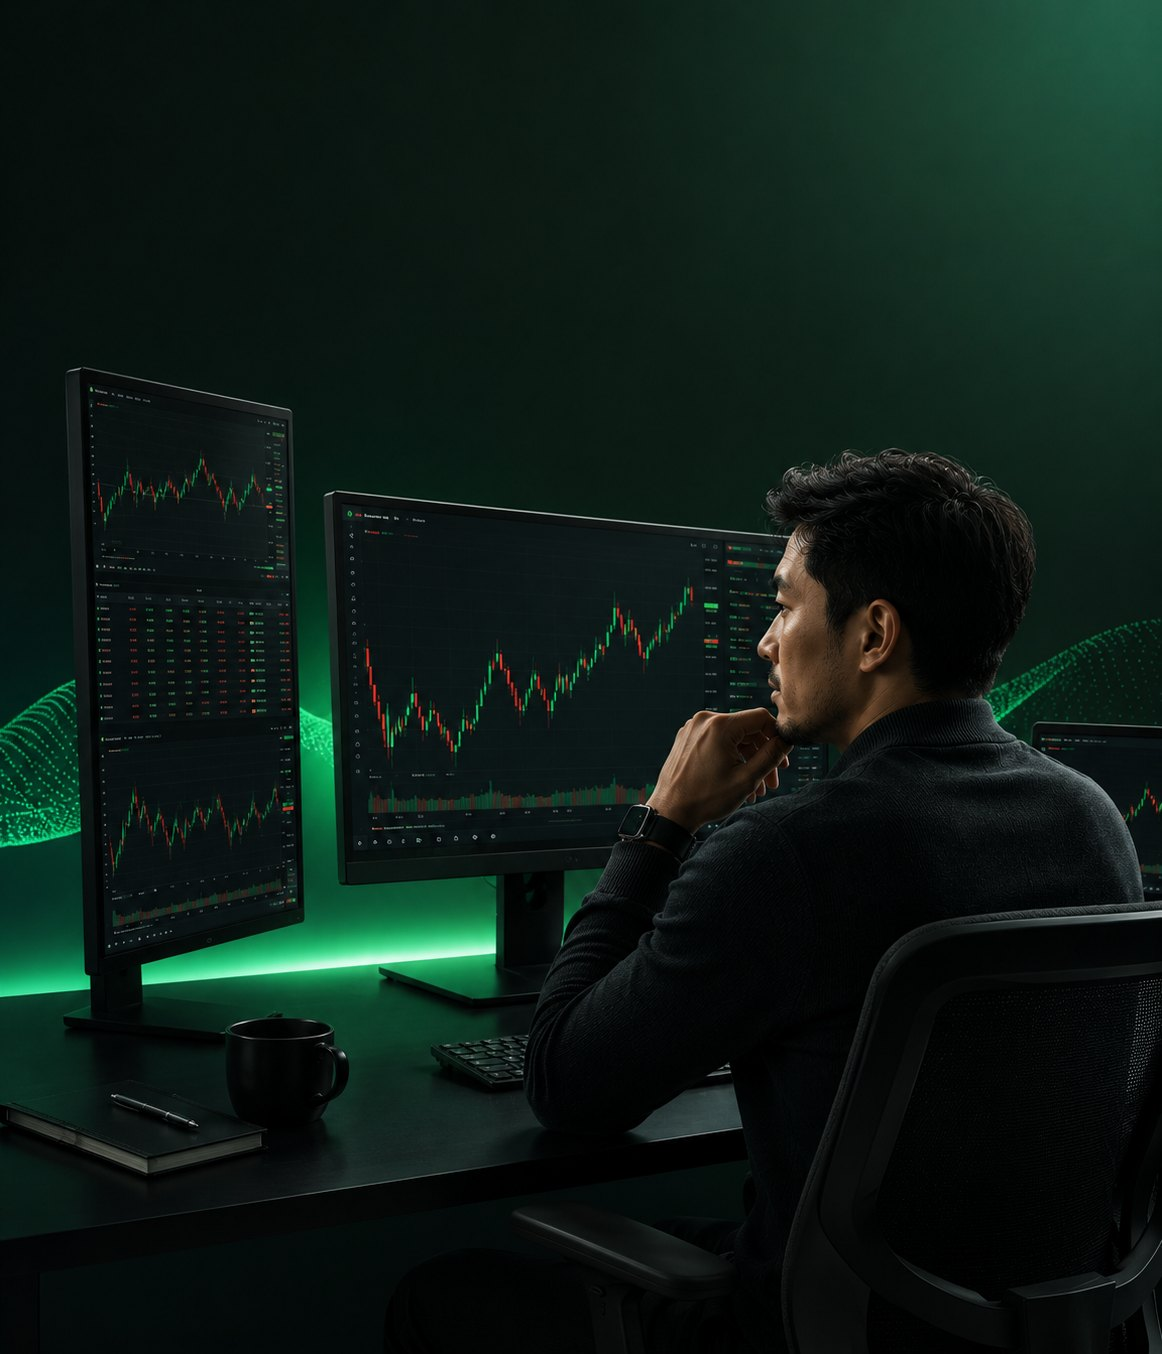
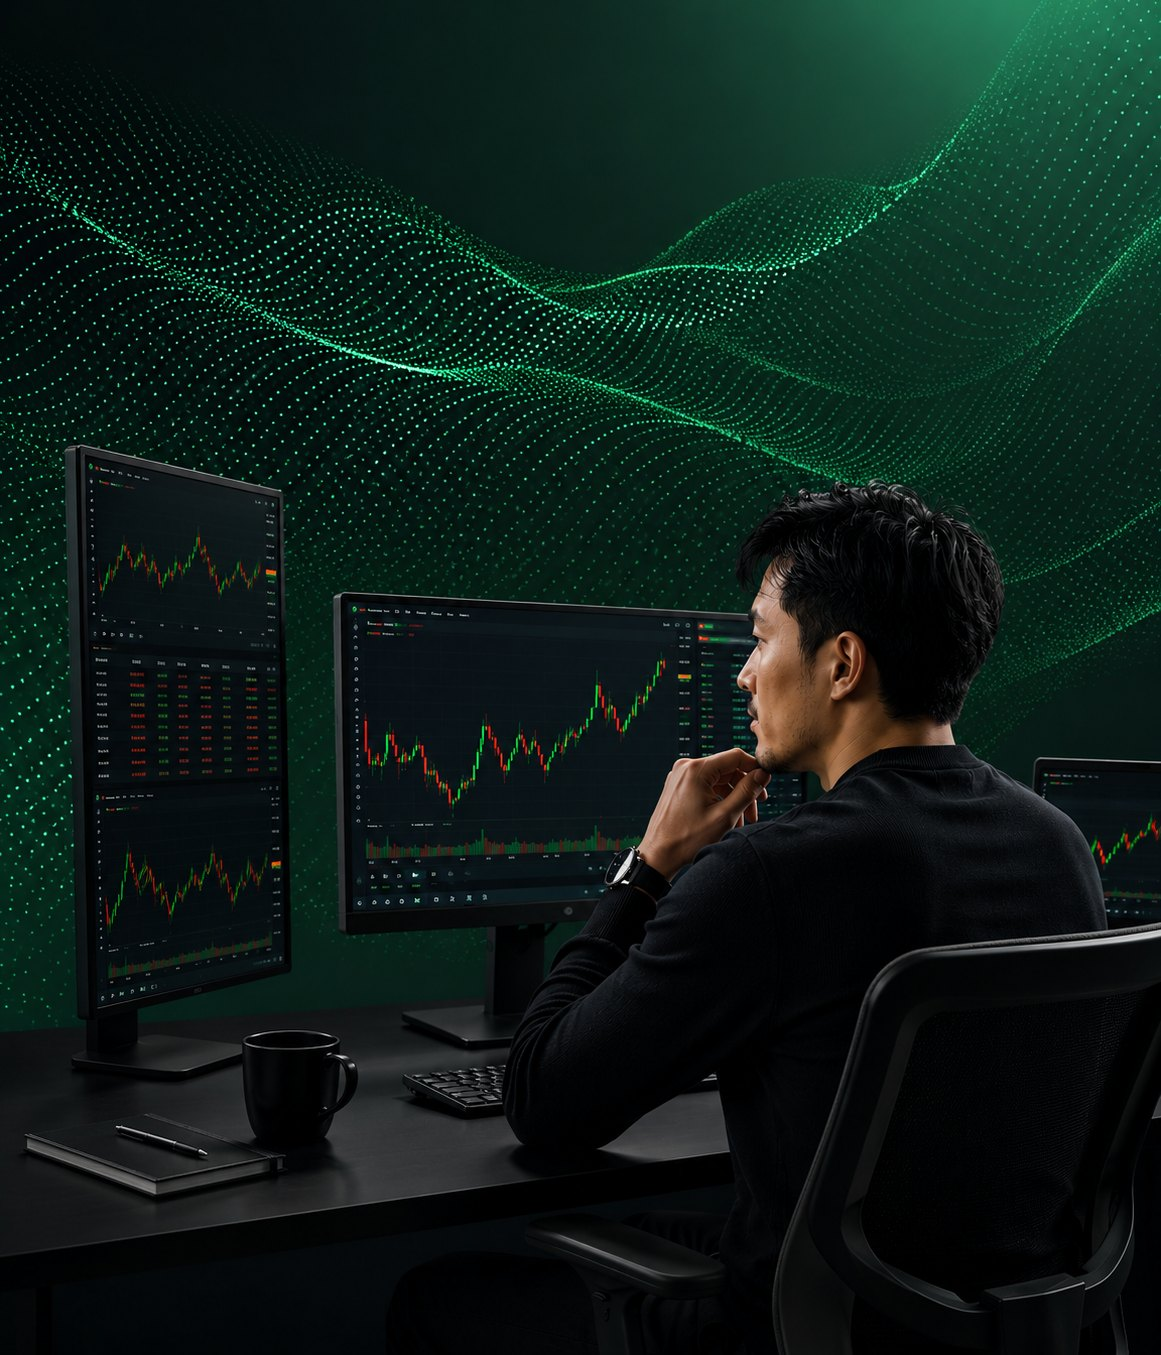
updated hero photo

diff --git a/index.html b/index.html
@@ -14,7 +14,7 @@
 <link rel="preconnect" href="https://fonts.gstatic.com" crossorigin>
 <link href="https://fonts.googleapis.com/css2?family=Inter:wght@400;500;600;700;800;900&display=swap" rel="stylesheet">
 <link rel="stylesheet" href="https://cdn.jsdelivr.net/npm/intl-tel-input@18.5.3/build/css/intlTelInput.min.css">
-<link rel="stylesheet" href="styles.css?v=47">
+<link rel="stylesheet" href="styles.css?v=48">
 </head>
 <body>
 
@@ -435,6 +435,6 @@
 </footer>
 
 <script src="https://cdn.jsdelivr.net/npm/intl-tel-input@18.5.3/build/js/intlTelInput.min.js"></script>
-<script src="script.js?v=47"></script>
+<script src="script.js?v=48"></script>
 </body>
 </html>
